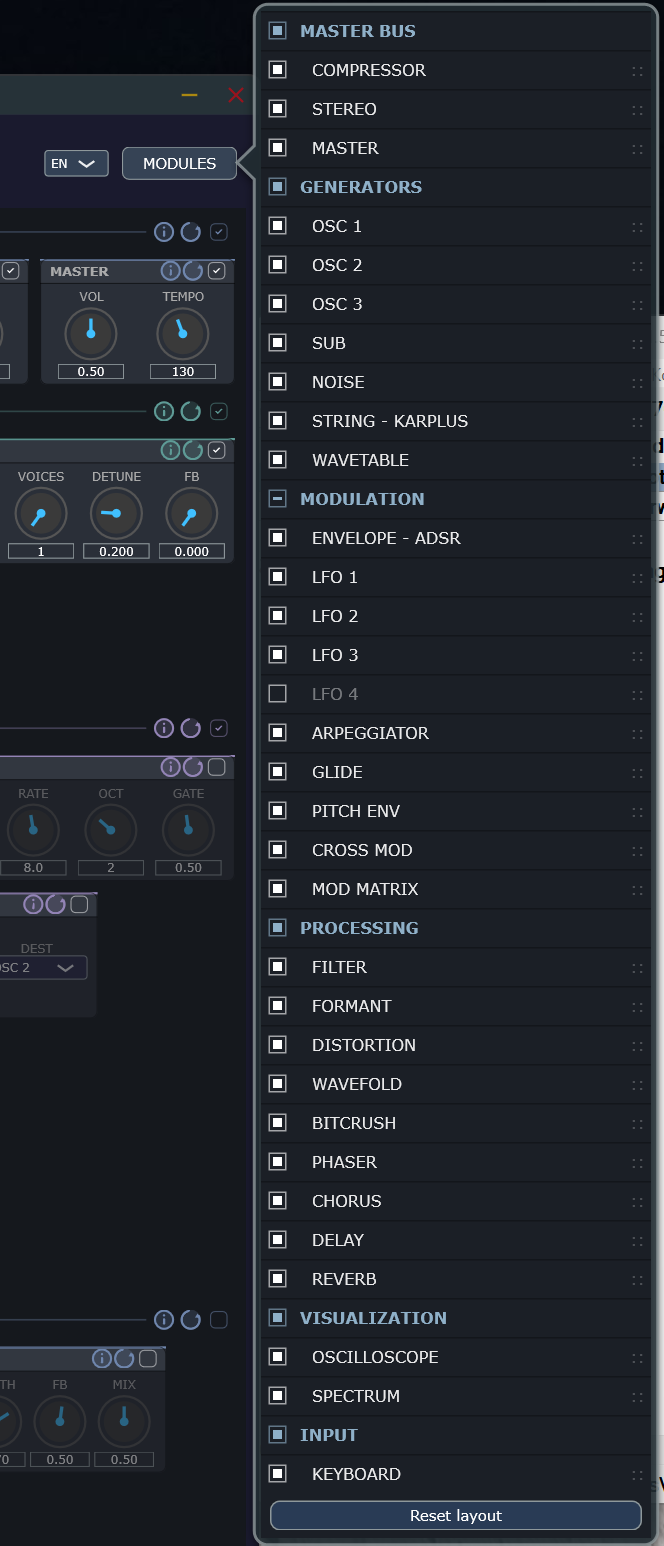
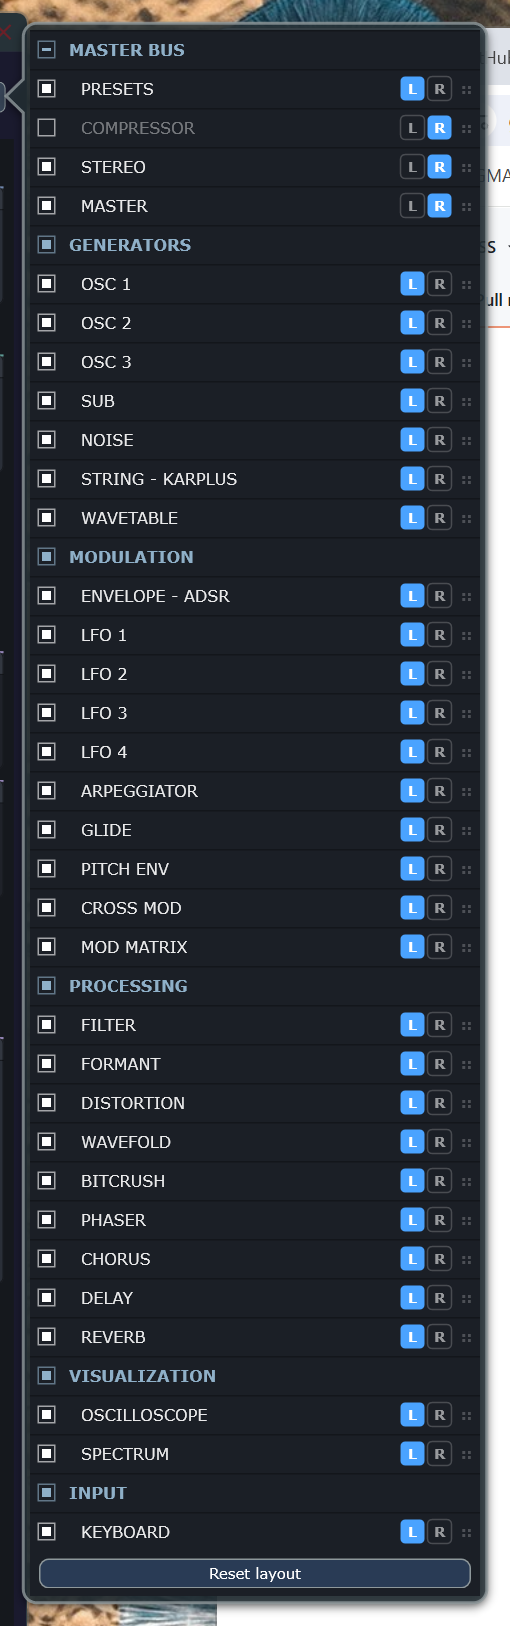
docs(bmad): Epic 11 - Robustness & RT-Safety hardening story
Documents the full-codebase BMAD review findings (2026-07-24) as an actionable
epic: 11.1 audio-thread alloc/lock-free (critical), 11.2 DSP correctness,
11.3 UI/lifetime/threading, 11.4 low-prio consistency. All pre-existing; none
block releases. file:line anchors + fix approaches + acceptance criteria.

Changed region(s): [[0.0, 0.0, 1.0, 1.0], [0.7647, 0.621, 0.8824, 0.9004]]

diff --git a/_bmad-output/implementation-artifacts/11-1-rt-safety-hardening.md b/_bmad-output/implementation-artifacts/11-1-rt-safety-hardening.md
@@ -1,0 +1,149 @@
+# Epic 11 — Robustness & RT-Safety Hardening
+
+Status: **Ready for dev** (captured 2026-07-24 from a full-codebase BMAD code review).
+Type: **Correctness / real-time-safety hardening** — no new features; make the existing engine
+allocation-free & lock-free on the audio thread, fix latent crashes and a couple of DSP bugs.
+
+> Source: adversarial full-codebase review (Blind Hunter + Edge Case Hunter, 8 file groups) run
+> after the MOD MATRIX MODULE→PARAM work. The MOD MATRIX feature itself reviewed clean; the items
+> below are **pre-existing** issues surfaced across the whole codebase. None blocked the v2026.07.x
+> releases, but they are the sensible next hardening pass. Line numbers are approximate (pre-fix).
+
+---
+
+## Story 11.1 — Make the audio thread allocation-free & lock-free (CRITICAL)
+
+As a JASS user (esp. in a DAW at low buffer sizes),
+I want no heap allocation, locking, or data races on the audio thread,
+so that the synth never xruns/dropouts or crashes under automation and fast playing.
+
+**Findings**
+- **`applyToVoice` builds `juce::String`s per voice/block** — `Parameters.h` (`ID::oscOn(i)` etc. do
+  `"osc"+String(i)+"On"`), called 8× per block from `PluginProcessor.cpp:~576`. ~100+ heap allocs
+  per audio callback. Fix: precompute all parameter `std::atomic<float>*` pointers once in
+  `prepareToPlay` (cache by index), read the cached pointers in `processBlock` — no `String` on the
+  audio thread.
+- **`parameterChanged` / `updateMatrixModuleEnables` / `syncCrossModEnables` run on the audio thread**
+  under host automation (VST3 `process()` → `setValueAndNotifyIfChanged`), building `std::set`/
+  `std::map`<String> and calling `setValueNotifyingHost` re-entrantly — `PluginProcessor.cpp:160-299`.
+  Fix: mark the auto-enable work message-thread-only (e.g. set an atomic "dirty" flag in
+  `parameterChanged`, do the enable reconciliation on the existing GUI/`Timer` tick), or guard with a
+  try-lock and skip on the audio thread.
+- **Unsynchronized `std::map` shared across threads** — `matrixAutoEnabled`, `crossModAutoEnabled`
+  (`PluginProcessor.h:~153,163`). Resolved for free once the above is message-thread-only; otherwise
+  needs a lock/lock-free structure.
+- **`KarplusStrong::pluck()` heap-allocates every note-on** — `KarplusStrong.h:~26` (`buffer.assign`),
+  from `SynthVoice::startNote` (audio thread). Fix: allocate the max-length buffer once in `prepare`,
+  keep a `length` cursor, `std::fill` the active region on pluck (no realloc).
+- **`WavetableBankStore::resetToBuiltIns()` = use-after-free** — `WavetableBank.h:~343` frees banks a
+  voice may still be reading via a cached `const WavetableBank*` (`WavetableOscillator::bank`). Fix:
+  don't destruct in place while audio may hold the pointer — swap under a message-thread guarantee,
+  keep old banks alive until the next block boundary, or reference-count / atomic-swap the bank ptr.
+- **Fresh `juce::MidiBuffer` per block** for arp + mono-glide — `PluginProcessor.cpp:~618,710`.
+  Fix: make them members `reserve()`d in `prepareToPlay` (like `arpHeldScratch` etc.), `clear()` per
+  block.
+- **`dynamic_cast<SynthVoice*>` in the per-voice hot loop** — `PluginProcessor.cpp` (several). Fix:
+  `static_cast` (only `SynthVoice` is ever added).
+
+**Acceptance Criteria**
+**Given** a debug/instrumented build (or manual audit)
+**When** notes are played, voices stolen, and parameters automated from the host
+**Then** `processBlock` (and everything it calls on the audio thread) performs **no heap
+allocation, no lock, and no `juce::String` construction**; the auto-enable/cross-mod reconciliation
+runs on the message thread only; `matrixAutoEnabled`/`crossModAutoEnabled` are never touched
+concurrently; and Karplus/Wavetable no longer allocate or free memory that the audio thread uses.
+
+---
+
+## Story 11.2 — DSP correctness fixes
+
+As a JASS user,
+I want the noise generator, foldback distortion and effect edge-cases to behave correctly,
+so that patches sound as intended and can't hang or click.
+
+**Findings**
+- **Pink/Blue noise is broken** — `NoiseGenerator.h:~59-76`: the Voss-McCartney row selection always
+  exits on row 0 (`+1` always flips bit 0), so `pinkRows[1..15]` are dead → output is attenuated
+  white, not −3 dB/oct pink; Blue (derived from pink) inherits it. Fix: correct the trailing-zero /
+  changed-bit row index (proper Voss-McCartney update).
+- **Foldback distortion can hang** — `Effects.cpp:~5-14`: `while (x>1||x<-1) x=±2-x;` has no cap;
+  `±Inf` loops forever, large finite input is O(n). Fix: guard non-finite input, cap iterations (or
+  use a closed-form triangle fold).
+- **Dry signal hard-clipped even when effect ~bypassed** — Distortion/Wavefolder/Bitcrusher clamp the
+  *crossfaded* output (`Effects.cpp:~32,50,72`), so at `mix<1` (esp. `mix==0`) the dry path is
+  clipped when `|input|>1`. Fix: clamp only the wet path (match Delay/Chorus/Reverb).
+- **Reverb: no empty-buffer guard; `reset()` permanently disables** — `Effects.cpp:~306-340`. Fix:
+  guard degenerate sample rates like the sibling effects; have `reset()` clear state without leaving
+  `initialized=false` forever.
+- **Delay: `static_cast<int>(time*sr)` before clamp** can be UB at near-zero host tempo —
+  `Effects.cpp:~92`. Fix: clamp in `double` first, then cast.
+- **Oscillator/WavetableOscillator freeze phase when `amplitude<0.001`** — `Oscillator.cpp:~21`,
+  `WavetableOscillator.h:~33`: skips the phase increment, so AMP-modulated-to-zero (tremolo) causes
+  pitch/phase drift. Fix: advance phase before the amplitude early-out (or don't early-out on the
+  phase update).
+
+**Acceptance Criteria**
+**Given** each affected DSP unit
+**When** driven with the relevant edge input (Pink/Blue selected; ±Inf/large into foldback; effect at
+`mix=0` with `|input|>1`; degenerate sample rate; amplitude modulated to ~0)
+**Then** Pink/Blue produce the correct −3 dB/oct-ish spectrum; no effect hangs; a near-bypassed
+effect passes the dry signal without clipping; reverb never indexes an empty buffer nor stays
+disabled after `reset()`; and a tremolo'd oscillator keeps correct pitch.
+
+---
+
+## Story 11.3 — UI/lifetime & threading robustness
+
+As a JASS user,
+I want the editor to never crash on teardown or read torn scope/spectrum data,
+so that closing/reopening the plugin window (routine in a DAW) is safe.
+
+**Findings**
+- **Async callbacks capture raw `this`/`Rack&` without a lifetime guard** — MODULES `CallOutBox`
+  (`PluginEditor.cpp:~594`), right-click title `PopupMenu::showMenuAsync` (`~1108`), `FileChooser`
+  completion in `ModuleFrame.cpp:~258`, processor-ctor `MessageManager::callAsync`
+  (`PluginProcessor.cpp:~61`). Fix: `juce::Component::SafePointer` / weak refs (the standalone
+  title-bar path already shows the pattern).
+- **`EnvelopeDisplay::timerCallback` null-derefs `pA/pD/pS/pR`** while `paint()` guards them —
+  `PluginEditor.h:~53` vs `.cpp:~308`. Fix: guard in `timerCallback` too (or resolve via `ID::`).
+- **`rackOwned` destroyed before `rackBody`** — `PluginEditor.h:~189-190`: frames hold raw `Component*`
+  to editor-owned Display components freed first. Fix: declare `rackBody` after `rackOwned` (reverse
+  member order) so frames die first.
+- **WaveformCapture data race** — `WaveformCapture.h:~19-51`: audio-thread `writePos`/`ring` vs GUI
+  `updateSnapshot`. Fix: atomic `writePos` + acquire/release, or a lock-free double-buffer/SPSC.
+- **Spectrum reads the oldest samples → visible lag** — `SpectrumDisplay.h:~176`: FFT from
+  `snapshot[0..fftSize)` of a 9600-sample forward-from-trigger window. Fix: read the trailing
+  `fftSize` samples.
+- **Rack layout landmine: infinite loop if module footprint > rack cols** — `Rack.cpp:~674`
+  (first-fit `for(;!found;++fr)`). Also negative cell width for very small widths (`~560`). Fix:
+  clamp `fcols`/guard the loop; floor the grid width.
+- **`setStateInformation` never `markPresetClean()`** → DAW session always reports "modified" —
+  `PluginProcessor.cpp:~825`. Fix: snapshot the clean baseline after `replaceState`.
+
+**Acceptance Criteria**
+**Given** a DAW (or standalone) session
+**When** the editor is closed/reopened while a popup/file dialog is open, the plugin state is
+restored, and the scope/spectrum run
+**Then** no use-after-free/crash occurs on teardown; scope/spectrum reads are race-free and the
+spectrum tracks live audio; the rack never hangs on layout; and a freshly loaded host project does
+not spuriously read as "modified".
+
+---
+
+## Story 11.4 — Low-priority consistency (opportunistic)
+
+Bundle when touching the above: global "Alle OSC" Amplitude unclamped (`SynthVoice.cpp` — clamp like
+the per-OSC path); LFO phase has no negative-rate wrap (`LFO.h`); `kNumSources` has no `static_assert`
+vs `ModSource`; arpeggiator rebuilds/sorts the sequence every block even when unchanged
+(`Arpeggiator.h:~56`); PresetIO unverified backup/`saveToFile` return values + basename-only backups +
+no `FormatVersion > kFormatVersion` guard (`PresetIO.h`); LFO hidden "Target" combo persists
+non-canonical strings (`LfoSpecs.h:27`); stale comments (ModMatrix.h implicit-routing, Formant cost).
+
+---
+
+## Notes
+- **RT-safety verification has no unit tests here** — verify by audit + a debug build with a
+  no-malloc-on-audio-thread guard, and by exercising in the running app / a DAW ([[feedback_ui_verification]]).
+- Suggested order: **11.1 first** (the real risk), then 11.2, then 11.3; 11.4 opportunistically.
+- After struct-size-affecting header edits, remember the **clean-rebuild rule** (see the build lesson
+  in MEMORY.md — incremental builds caused an ABI/ODR crash during the MOD MATRIX work).

diff --git a/_bmad-output/planning-artifacts/epics.md b/_bmad-output/planning-artifacts/epics.md
@@ -618,3 +618,27 @@ feasibility assessment ("does it make sense"), the staged Phase A/B plan, dev an
 `SynthVoice`, stereo bus in `PluginProcessor.cpp:7-8`, pseudo-stereo `DSP/StereoWidth.h`), and the
 Open Design Questions (stereo-first vs surround-first, discrete-channel vs continuous panner, where
 the effects run, fate of the pseudo-stereo STEREO module, LFE handling, standalone device config)._
+
+---
+
+## Epic 11: Robustness & RT-Safety Hardening
+
+Correctness/real-time-safety pass (no new features) from the 2026-07-24 full-codebase BMAD review.
+Make the audio thread allocation-free & lock-free, fix latent teardown crashes and a few DSP bugs.
+All items are **pre-existing** (not from the MOD MATRIX work); none block releases.
+
+- **Story 11.1 — Audio thread allocation-free & lock-free (CRITICAL):** string-free `applyToVoice`
+  (cache atomic ptrs), move auto-enable/cross-mod reconciliation off the audio thread + fix the
+  `std::map` data race, Karplus/Wavetable no audio-thread alloc/free, reserve arp/glide MidiBuffers,
+  drop `dynamic_cast` in the voice loop.
+- **Story 11.2 — DSP correctness:** fix Pink/Blue noise (broken Voss-McCartney), cap foldback loop,
+  clamp only the wet path in Dist/Wavefold/Bitcrush, guard Reverb empty-buffer/`reset()`, clamp Delay
+  time before int-cast, advance oscillator phase when amplitude≈0.
+- **Story 11.3 — UI/lifetime & threading:** SafePointer on async callbacks (CallOutBox, PopupMenu,
+  FileChooser, ctor callAsync), guard EnvelopeDisplay timer, fix member destruction order, race-free
+  WaveformCapture, spectrum reads trailing window, guard rack layout loop, `markPresetClean` in
+  `setStateInformation`.
+- **Story 11.4 — Low-priority consistency (opportunistic).**
+
+_Full findings with `file:line` anchors, fix approaches and acceptance criteria:
+`_bmad-output/implementation-artifacts/11-1-rt-safety-hardening.md`._
